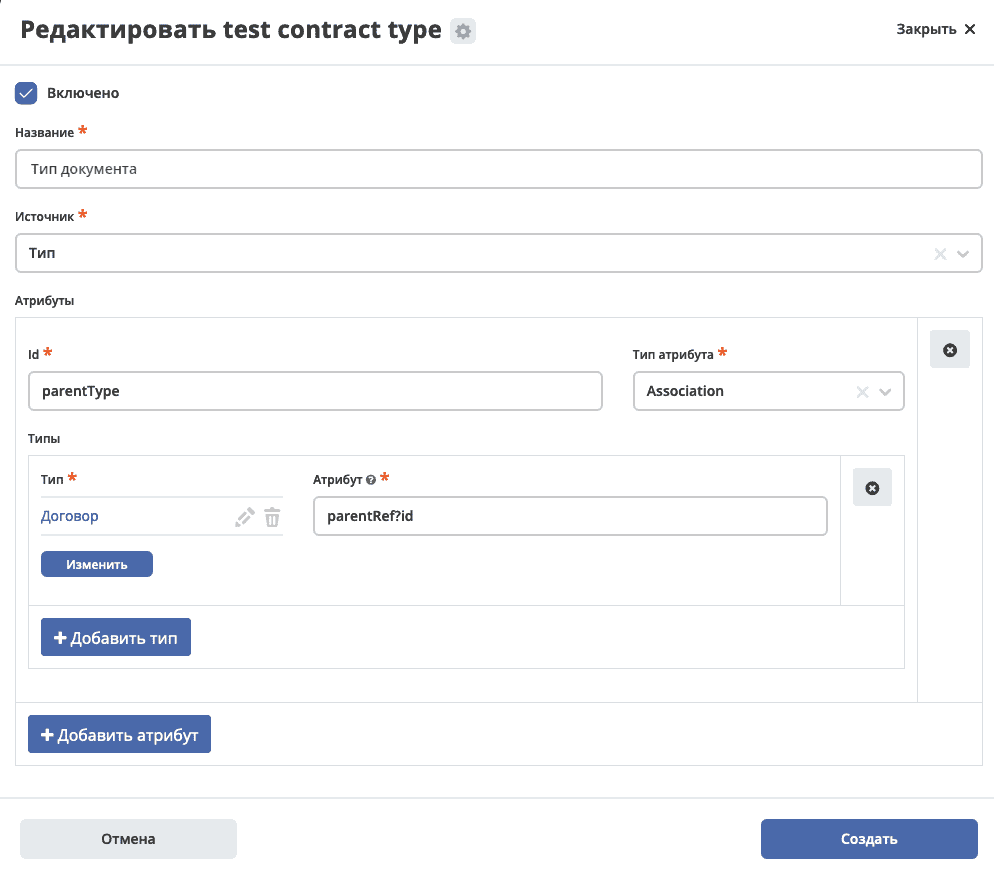
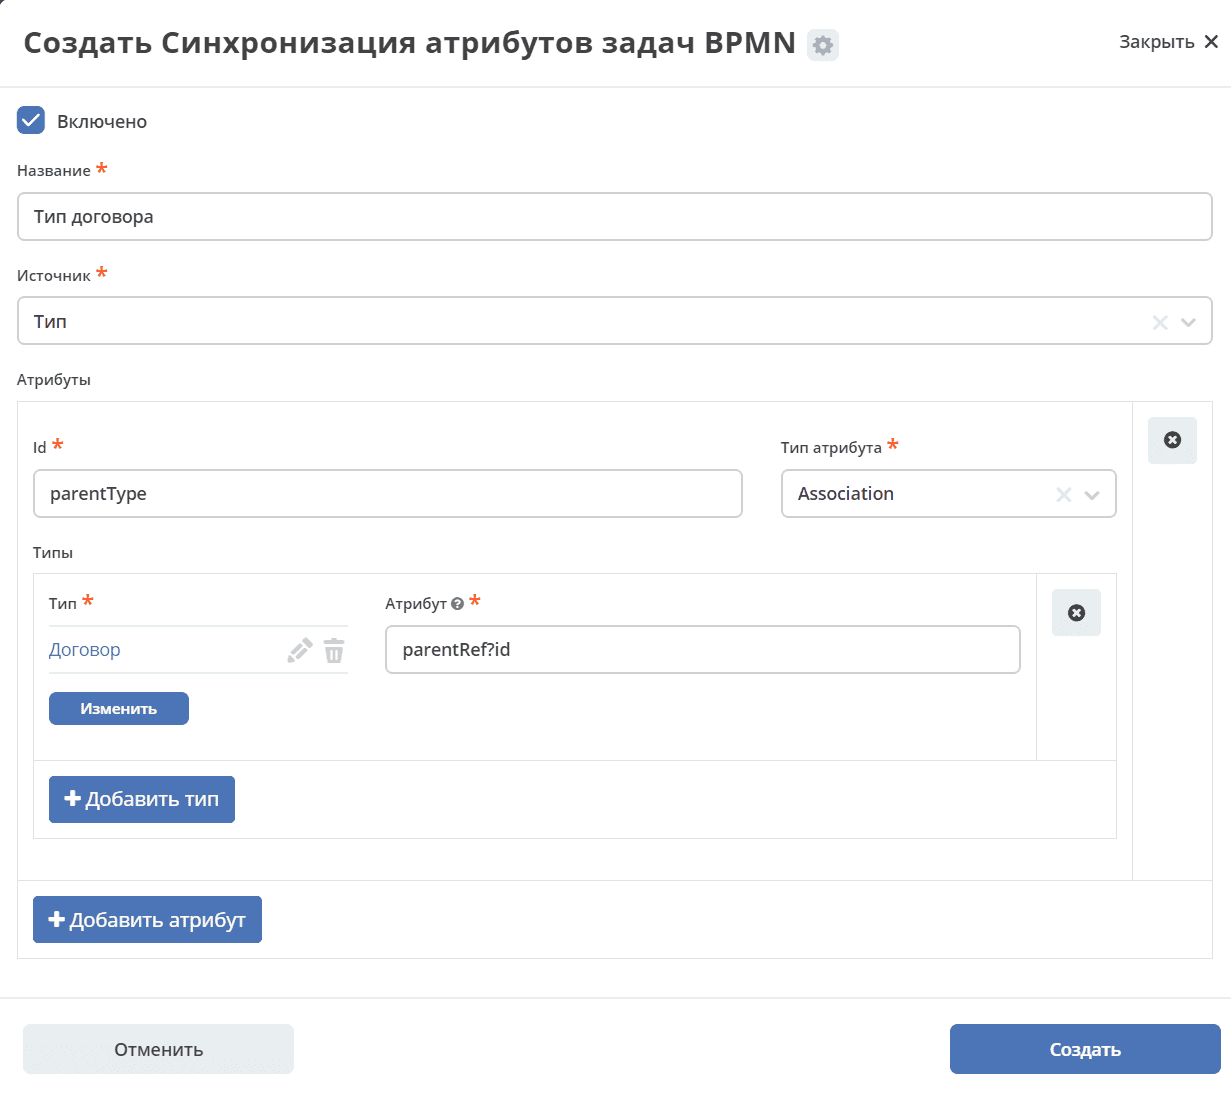
ECOSENT-2976 Update

diff --git a/docs/settings_kb/interface/journals/attribute_synchro.rst b/docs/settings_kb/interface/journals/attribute_synchro.rst
@@ -4,7 +4,7 @@
 Для настройки синхронизации атрибутов задач в раздел :ref:`Раздел администратора<admin>` **Управление процессами** добавлен журнал настроек **Синхронизация атрибутов задач BPMN**.
 
  .. image:: _static/attribute_synchro/01.png
-       :width: 600
+       :width: 700
        :align: center
 
 Объект настройки
@@ -83,14 +83,71 @@
        :width: 600
        :align: center
 
+.. code-block::
+
+  - id: _doc_documentStatus
+    name:
+      en: Document status
+      ru: Статус документа
+
+  - id: _doc_currency
+    name:
+      en: Document currency
+      ru: Валюта документа
+    type: ASSOC
+    formatter:
+      type: assoc
+    editor:
+      type: journal
+      config:
+        journalId: currency
+    searchable: true
+    sortable: false
+
+  - id: _doc_contractDate
+    name:
+      en: Document contract date
+      ru: Дата договора документа
+    type: DATE
+    searchable: true
+    sortable: false
+
+  - id: _doc_legalEntity
+    name:
+      en: Document legal entity
+      ru: Юридическое лицо д
+    type: ASSOC
+    formatter:
+      type: assoc
+
+  - id: _doc_signatory
+    name:
+      en: Document signatory
+      ru: Подписант документа
+    type: AUTHORITY
+
+  - id: _doc_performer
+    name:
+      en: Document performer
+      ru: Исполнитель документа
+    type: AUTHORITY
+
+  - id: _doc_t_parentType
+    name:
+      en: Document parent type
+      ru: Тип родительского документа
+    type: ASSOC
+    formatter:
+      type: assoc
+
 Активные задачи по умолчанию:
 
  .. image:: _static/attribute_synchro/06.png
-       :width: 600
+       :width: 700
        :align: center
 
 И с добавленными полями:
 
  .. image:: _static/attribute_synchro/07.png
-       :width: 600
+       :width: 1000
        :align: center
